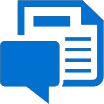
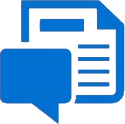
working on header responsive css

diff --git a/src/components/header/Navdrop.css b/src/components/header/Navdrop.css
@@ -1,33 +1,52 @@
 @import "../../fonts.css";
 
 .navdrop-container {
+    box-sizing: border-box;
     background-color: white;
     font-size: .85rem;
     font-family: sst;
     font-weight: 500;
     position: relative;
     z-index: 1;
-    width: calc(100% - 4.55rem);
+    width: calc(100% - 4.6rem);
+    height: 800px;
+    padding: 1rem;
     margin-left: auto;
+    margin-top: .6rem;
+    box-shadow: -4px 10px 27px -2px #ccc;
 }
+
+/* title section */
+
+.navdrop-title-section {
+    display: flex;
+    align-items: center;
+    margin-bottom: 1.75rem;
+}
+
+.navdrop-close-btn {
+    width: .9rem;
+    margin-right: 1rem;
+    cursor: pointer;
+}
+
+/* icon section */
 
 .navdrop-icon-section {
     display: flex;
     flex-wrap: wrap;
-    gap: 2rem;
-}
-
-.navdrop-icon-section > * {
-    flex: 50%;
-    box-sizing: border-box;
+    justify-content: space-between;
+    padding-bottom: 1rem;
+    border-bottom: 1px solid rgb(200, 200, 200)
 }
 
 .navdrop-icon-el {
-    position: relative;
     display: flex;
     flex-direction: column;
     align-items: center;
-    justify-content: center;
+    justify-content: start;
+    width: 47.5%;
+    min-width: 8rem;
     height: 5rem;
     border-radius: 2px;
     cursor: pointer;
@@ -42,97 +61,11 @@
 }
 
 .navdrop-icon-title {
-    text-align: center;
-    position: absolute;
-    left: 50%;
-    transform: translateX(-50%);
-    bottom: 0;
-    margin-bottom: 1.2rem;
+
 }
 
-/* .navdrop-container {
-    color: #1f1f1f;
-    font-family: sst;
-    font-weight: 500;
-}
-
-.navdrop-icon-section {
-    display: flex;
-    align-items: center;
-    justify-content: center;
-    gap: .5rem;
-    padding-bottom: 1.5rem;
-    border-bottom: 1px solid rgb(200, 200, 200);
-}
-
-.navdrop-icon-el {
-    position: relative;
-    display: flex;
-    flex-direction: column;
-    align-items: center;
-    justify-content: center;
-    width: 8.75rem;
-    height: 8.1rem;
-    border-radius: 2px;
-    cursor: pointer;
-}
-
-.navdrop-icon-el:hover {
-    box-shadow: 1px 1px 5px 1px rgba(0, 0, 0, 0.2);
-}
-
-.navdrop-icon-image {
-    transform: scale(50%);
-    margin-bottom: 2rem;
-}
-
-.navdrop-icon-title {
-    text-align: center;
-    position: absolute;
-    left: 50%;
-    transform: translateX(-50%);
-    bottom: 0;
-    margin-bottom: 1.25rem;
-    width: 80%;
-}
-
-.navdrop-dot-section {
-    text-align: center;
-    padding: 1.5rem 1rem;
-    display: flex;
-    align-items: center;
-    justify-content: center;
-    box-shadow: 0 8px 5px 1px rgba(0, 0, 0, 0.2);
-    gap: 2rem;
-}
+/* dot section */
 
 .navdrop-dot-el {
-    display: flex;
-    align-items: center;
-    cursor: pointer;
+    margin-top: 1.5rem;
 }
-
-.navdrop-dot-el:last-child {
-    margin-right: 0;
-}
-
-.navdrop-dot-dot {
-    width: .5rem;
-    height: .5rem;
-    border-radius: 50%;
-    background-color: #0170CC;
-    margin-top: .2rem;
-    margin-right: .4rem;
-}
-
-.navdrop-dot-title:hover {
-    color: #0170CC;
-}
-
-@media (max-width: 850px) {
-    .navdrop-dot-title {
-      font-size: .7rem
-    }
-  } */
-
-

diff --git a/src/components/header/Navdrop.js b/src/components/header/Navdrop.js
@@ -2,17 +2,21 @@ import { navData } from "./navdata"
 import "./Navdrop.css"
 
 function Navdrop(props) {
-    const currentData = navData.find(item => item.title === props.dropType)
+    const {dropState, setDropState} = props.dropState
+
+    const currentData = navData.find(item => item.title === dropState)
 
     const iconSectionEls = currentData.iconSection.map(item => (
         <div className="navdrop-icon-el" key={item}>
-            <img className="navdrop-icon-image" src={require(`../../assets/images/${getImageName(item)}.png`)} alt={item} />
+            <div>
+                <img className="navdrop-icon-image" src={require(`../../assets/images/${getImageName(item)}.png`)} alt={item} />
+            </div>
             <span className="navdrop-icon-title">{item}</span>
         </div>
     ))
     
     const dotSectionEls = currentData.dotSection.map(item => (
-        <div className="navdrop-dot-el">
+        <div key={item} className="navdrop-dot-el">
             <span className="navdrop-dot-dot"></span>
             <span className="navdrop-dot-title">{item}</span>
         </div>
@@ -24,6 +28,10 @@ function Navdrop(props) {
 
     return (
             <div className="navdrop-container">
+                <div className="navdrop-title-section">
+                    <img onClick={() => setDropState("Hide")} className="navdrop-close-btn" src={require("../../assets/images/drop-menu-icon.png")} alt="close navdrop"/>
+                    <p>{dropState}</p>
+                </div>
                 <div className="navdrop-icon-section">
                     {iconSectionEls}
                 </div>

diff --git a/src/components/header/NavBtn.js b/src/components/header/NavBtn.js
@@ -42,7 +42,7 @@ function NavBtn(props) {
     }
 
     return (
-        <button onClick={handleClick} onMouseEnter={toggleHovered} onMouseLeave={toggleHovered} className="nav-btn">
+        <button onClick={handleClick} onMouseEnter={toggleHovered} onMouseLeave={toggleHovered} className={`nav-btn ${dropState === title ? "nav-btn-background-blue" : ""}`}>
             <img className="nav-btn-icon" src={require(`../../assets/images/${getBtnIcons(title).icon}.png`)} alt={`${title} icon`} />
             <span className={`nav-btn-title ${dropState === title ? `nav-btn-title-opened` : ""}`}>{title}</span>
             <img className={`nav-btn-arrow ${dropState === title ? "nav-btn-arrow-rotate" : ""}`} src={require(`../../assets/images/${getBtnIcons(title).arrow}.png`)} alt="arrow icon pointing down" />

diff --git a/src/components/header/NavBtn.css b/src/components/header/NavBtn.css
@@ -7,12 +7,15 @@
     font-size: 1rem;
     background-color: transparent;
     width: 100%;
-    padding: 1rem 1rem 1rem 1.5rem;
+    padding: 1rem 1.5rem 1rem 1.5rem;
     border: none;
-    margin-top: 1rem;
     display: flex;
     align-items: center;
     cursor: pointer;
+}
+
+.nav-btn-background-blue {
+    background-color: #EAF7FF;
 }
 
 .nav-btn:hover {
@@ -21,7 +24,7 @@
 
 .nav-btn-icon {
     width: 1.6rem;
-    margin-right: 1.4rem;
+    margin-right: 1.5rem;
 }
 
 .nav-btn-arrow {

diff --git a/src/components/header/Header.css b/src/components/header/Header.css
@@ -5,6 +5,7 @@
     justify-content: space-between;
     position: relative;
     padding: 1rem 1rem;
+    box-shadow: 0 2px 5px 1px rgba(0, 0, 0, 0.2);
 }
 
 .header-icon-container {
@@ -14,11 +15,11 @@
 }
 
 .header-navbar-icon {
-    width: 1.5rem;
+    width: 1.2rem;
 }
 
 .header-search-icon {
-    width: 1.3rem;
+    width: 1rem;
 }
 
 .ps-header-logo  {
@@ -45,6 +46,7 @@
     left: 0;
     top: 3.9rem;
     width: 100%;
+    margin-top: .6rem;
 }
 
 .header-navbar-toggle {

diff --git a/src/components/header/Header.js b/src/components/header/Header.js
@@ -32,7 +32,7 @@ function Header() {
                     {navBtnElements}
                 </nav>
             </div>
-            { dropState !== "Hide" && <Navdrop dropType={dropState}/> }
+            { dropState !== "Hide" && <Navdrop dropState={{dropState, setDropState}}/> }
         </header>
     )
 }
